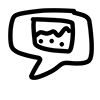
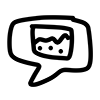
fill that comment button, making comments works

diff --git a/src/components/AddComment/AddComment.jsx b/src/components/AddComment/AddComment.jsx
@@ -3,7 +3,7 @@ import Modal from "react-modal";
 import { createPost } from "../../services/posts.js";
 import "./AddComment.css";
 
-function AddComment({ parentId, imgUrl }) {
+function AddComment({ parentId, imgUrl, setReload }) {
   const [modal, setModal] = useState(false);
   const [comment, setComment] = useState({
     title: "",
@@ -58,11 +58,14 @@ function AddComment({ parentId, imgUrl }) {
       const response = await createPost(comment);
       if (response.status === 201) {
         console.log("Comment added successfully");
+        setReload((prev) => !prev);
         toggleModal();
-        location.reload();
+        // location.reload();
       } else {
         console.log("Comment FAILED successfully");
-        location.reload();
+        setReload((prev) => !prev);
+        toggleModal();
+        // location.reload();
       }
     } catch (error) {
       console.error("Failed to submit comment:", error);

diff --git a/src/pages/Thread/Thread.jsx b/src/pages/Thread/Thread.jsx
@@ -12,6 +12,7 @@ function Thread() {
   // const [toggle, setToggle] = useState(false)
   const [post, setPost] = useState([])
   const [comments, setComments] = useState([])
+  const [reload, setReload] = useState(false);
 
   
 // I need to pull the post that was clicked in Feed.
@@ -32,7 +33,7 @@ useEffect(() => {
   }
   
   fetchPost()
-}, [postId])
+}, [postId,reload])
 
 useEffect(() => {
   const fetchComments = async () => {
@@ -70,7 +71,7 @@ useEffect(() => {
           <h3 id="scroll-text" className="post-description-Thread">{post.text_body}</h3>
         </div>
         <div className="AddComment-Thread">
-          <AddComment imgUrl={post.image} parentId={post.id} />
+          <AddComment imgUrl={post.image} parentId={post.id} setReload={setReload} />
         </div>
       </div>  
       <div className="root-comment-Thread">

diff --git a/src/pages/Thread/Thread.css b/src/pages/Thread/Thread.css
@@ -3,8 +3,8 @@
   
 }
 .map-comment-Thread img {
-  height: 200px;
-  width: 200px;
+  width: 18rem;
+  margin: 1rem 0.7rem;
 }
 
 #img-Thread {
